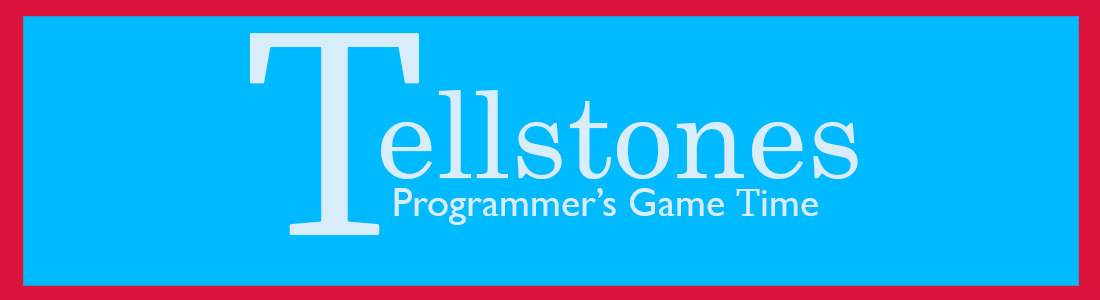
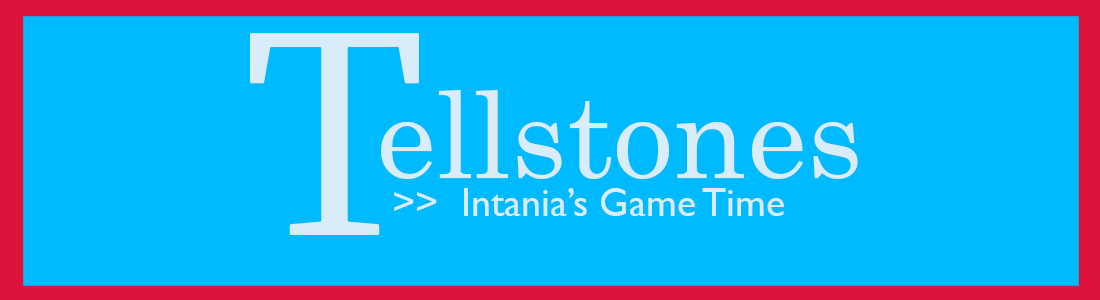
add more UtilityPane constructors
also edited default logo

Changed region(s): [[0.34, 0.63, 0.7418, 0.75]]

diff --git a/src/gameelement/UtilityPane.java b/src/gameelement/UtilityPane.java
@@ -1,17 +1,78 @@
 package gameelement;
 
+import exception.ButtonNotExistException;
+import javafx.scene.canvas.Canvas;
+import javafx.scene.canvas.GraphicsContext;
+import javafx.scene.control.Button;
 import javafx.scene.image.Image;
 import javafx.scene.image.ImageView;
+import javafx.scene.paint.Color;
 import javafx.scene.shape.Rectangle;
+import javafx.scene.text.Font;
 
-public class UtilityPane extends ImageView {
+public class UtilityPane extends Canvas {
 
-
+	private GraphicsContext gc;
 
 	public UtilityPane() {
-		super(new Image(ClassLoader.getSystemResource("UtilityPaneDefault.png").toString()));
-		this.setFitHeight(300);
-		this.setFitWidth(1100);
+		super(1100, 300);
+		gc = this.getGraphicsContext2D();
+		this.drawDefaultBackground();
+	}
+
+	public UtilityPane(String buttonname) {
+		super(1100, 300);
+		gc = this.getGraphicsContext2D();
+		this.drawBlankBackground();
+
+		try {
+			this.drawText(buttonname);
+		} catch (ButtonNotExistException e) {
+
+		}
+	}
+
+	public void drawDefaultBackground() {
+		String image_path = ClassLoader.getSystemResource("UtilityPaneDefault.png").toString();
+		Image bg = new Image(image_path);
+		this.gc.drawImage(bg, 0, 0);
+	}
+
+	public void drawBlankBackground() {
+		String image_path = ClassLoader.getSystemResource("UtilityPaneBlank.png").toString();
+		Image bg = new Image(image_path);
+		this.gc.drawImage(bg, 0, 0);
+	}
+
+	public void drawText(String buttonname) throws ButtonNotExistException {
+			gc.setFill(Color.WHITE);
+			gc.setFont(new Font("Century", 60));
+			gc.fillText(buttonname, 80, 100);
+			gc.setFont(new Font("Gill Sans", 40));
+			String guide;
+		switch (buttonname) {
+		case "Hide":
+			guide = "Choose one stone to hide" ;
+			gc.fillText(guide, 100, 150);
+			break;
+		case "Swap":
+			guide = "Choose two stones to swap position.\n"
+					+ "Note that swapped hideen stones will remain hidden." ;
+			gc.fillText(guide, 100, 150);
+			break;
+		case "Peak":
+			gc.setFont(new Font("Gill Sans", 30));
+			guide = "Choose one stone to peak privately.\n"
+					+ "the other player, please close your eyes for the duration of the peak.\n"
+					+ "If you lost points in the last round, you can peak three stones." ;
+			gc.fillText(guide, 100, 150);
+			break;
+		default:
+			throw new ButtonNotExistException();
+		}
+		
+	
+		
 	}
 
 }

diff --git a/src/exception/ButtonNotExistException.java b/src/exception/ButtonNotExistException.java
@@ -1,0 +1,10 @@
+package exception;
+
+public class ButtonNotExistException extends Exception {
+
+	public ButtonNotExistException() {
+		super("This action does not exist in this variant of Tellstones!!!");
+		
+	}
+
+}
